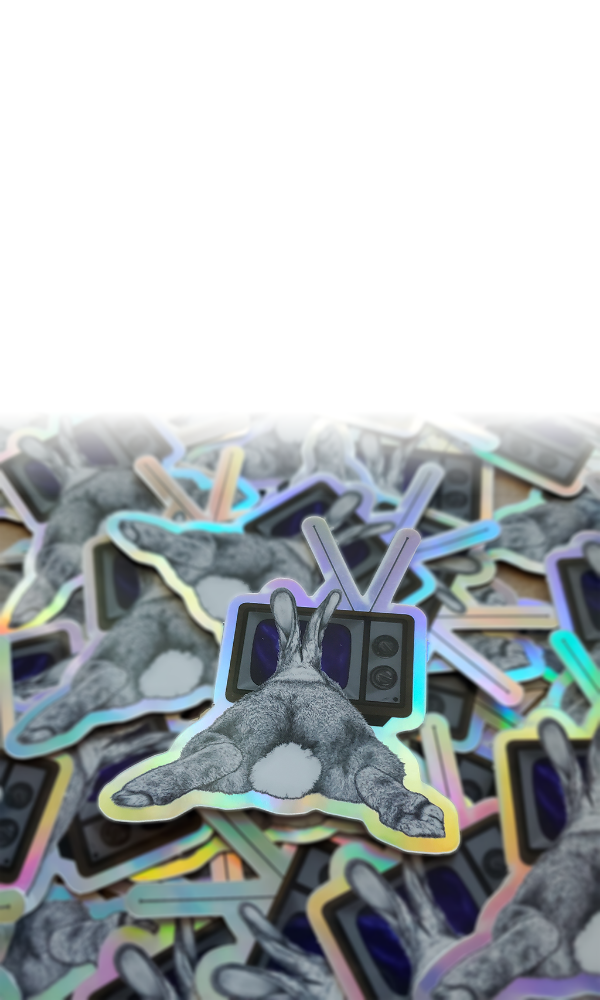
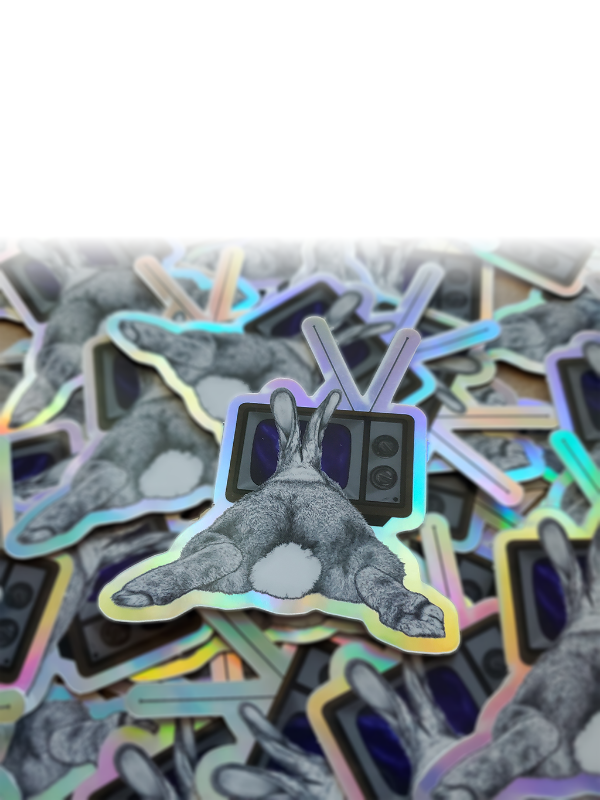
fix: img sizes on home

diff --git a/pages/view-product/[pid].jsx b/pages/view-product/[pid].jsx
@@ -1,23 +1,26 @@
 import { useRouter } from "next/router";
 import { useState, useEffect } from "react";
 import { Header, Footer } from "../../components/layout";
+import { QtyControl } from '../../components/controllers/qty_control';
 
 const ProductPreview = (props) => {
-  const [primaryImage, setPrimaryImage] = useState(props.product.productImages[0]);
-  
+  const [primaryImage, setPrimaryImage] = useState(
+    props.product.productImages[0]
+  );
+
   const handlePrimaryImageToggle = (i) => {
-    return setPrimaryImage(i)
-  }
+    return setPrimaryImage(i);
+  };
   return (
     <section className="col-md-6 col-sm-12 bg-light pid_section">
-      <img
-        className="main_img"
-        src={primaryImage}
-        alt={"product image"}
-      />
+      <img className="main_img" src={primaryImage} alt={"product image"} />
       <div className="img_previews">
         {props.product.productImages.map((i) => (
-          <button className="img_preview_button" onClick={() => handlePrimaryImageToggle(i)}>
+          <button
+            key={i}
+            className="img_preview_button"
+            onClick={() => handlePrimaryImageToggle(i)}
+          >
             <img src={i} alt={"product image"} />
           </button>
         ))}
@@ -49,7 +52,7 @@ const ViewProduct = (props) => {
         <div className="fluid-container bg-light pt-5 pb-5">
           <div className="container">
             <div className="row">
-              <ProductPreview product={product}/>
+              <ProductPreview product={product} />
               <section className="col-md-6 col-sm-12 bg-light pid_section">
                 <div className="p-sm-3">
                   <h2 className="product_view_title">{product.productTitle}</h2>
@@ -59,7 +62,7 @@ const ViewProduct = (props) => {
                 </div>
                 <div className="align-self-end p-sm-3 d-flex flex-column align-items-end">
                   <p className="product_view_price">{product.productPrice}</p>
-                  <button className="btn btn-outline-dark">Add To Cart</button>
+                  <QtyControl product={product}/>
                 </div>
               </section>
             </div>

diff --git a/components/home_content.jsx b/components/home_content.jsx
@@ -7,40 +7,21 @@ const ProductCard = (props) => {
 
   props.productBgIsLight
     ? (dom = {
-        title: "product_title",
-        hoverTitle: "big_title",
-        text: "product_text",
-        price: "product_text align-self-end product_price",
+        title: "font-weight-bold"
       })
     : (dom = {
-        title: "text-light product_title",
-        hoverTitle: "text-light big_title",
-        text: "text-light product_text",
-        price: "text-light product_text align-self-end product_price",
+        title: "text-light font-weight-bold"
       });
 
   return (
     <section className="product_card_v m-1">
-      <a className="no-link" href={props.productPath} ref={hoverRef}>
-        {isHovered ? (
-          <div
-            className="product_image"
-            style={{ backgroundImage: `url("${props.imagePathHovered}")` }}
-          >
-            <div className="holdstill">
-              <h3 className={dom.title}>{props.productTitle}</h3>
-              <p className={dom.text}>{props.productDescription}</p>
-            </div>
-            <h4 className={dom.price}>{props.productPrice}</h4>
-          </div>
-        ) : (
-          <div
-            className="product_image"
-            style={{ backgroundImage: `url("${props.imagePath}")` }}
-          >
-            <h3 className={dom.title}>{props.productTitle}</h3>
-          </div>
-        )}
+      <a className="no-link" href={props.productPath} ref={hoverRef}>       
+        <div
+          className="product_image"
+          style={{ backgroundImage: `url("${props.imagePath}")` }}
+        >
+          <h2 className={dom.title}>{props.productTitle}</h2>
+        </div>       
       </a>
     </section>
   );

diff --git a/components/controllers/qty_control.jsx b/components/controllers/qty_control.jsx
@@ -1,0 +1,34 @@
+import React, { useState } from 'react';
+
+const QtyControl = (props) => {
+  
+
+  const [count, setCount] = useState(0);
+  const handleCount = (operator) => {
+    if (operator === "+") return setCount(count + 1)
+    else {
+      if (count === 0) return
+      setCount(count - 1)      
+    }
+    
+  }
+
+  const handleSubmit = () => {
+    //post req
+    console.log(count)
+
+  }
+
+  return (
+    <div className="d-flex flex-column">
+      <div className="btn-group">
+        <button className="btn btn-outline-dark p-1 pr-3 pl-3" style={{height: 'fit-content'}} onClick={() => handleCount("-")}>-</button>
+        <p className="d-flex pr-3 pl-3" style={{height: 'fit-content'}}>{count}</p>
+        <button className="btn btn-outline-dark p-1 pr-3 pl-3" style={{height: 'fit-content'}} onClick={() => handleCount("+")}>+</button>      
+      </div>
+      <button className="btn btn-outline-dark" onClick={handleSubmit}>Add To Cart</button> 
+    </div>
+  );
+}
+
+export { QtyControl }

diff --git a/components/layout.jsx b/components/layout.jsx
@@ -31,7 +31,7 @@ const Header = (props) => {
         </a>
       ) : (
         <a className="navbar-brand text-light" href="/">
-          {store.storeName}
+          { store.storeName }
         </a>
       )}
       <button
@@ -42,13 +42,14 @@ const Header = (props) => {
         aria-controls="navbarNav"
         aria-expanded="false"
         aria-label="Toggle navigation"
-      >
+      > 
         <span className="navbar-toggler-icon"></span>
       </button>
       <div className="collapse navbar-collapse" id="navbarNav">
         <ul className="navbar-nav">
           {store.nav.links.map((i) => (
             <NavLink
+              key={i.path}
               current={props.current}
               title={i.title}
               path={i.path}

diff --git a/styles/index.css b/styles/index.css
@@ -10,10 +10,10 @@ main,
 }
 
 .product_image {
-  height: 500px;
+  height: 350px;
   width: 300px;
-  background-position: center;
-  background-size: contain;
+  background-position: bottom;
+  background-size: cover;
   display: flex;
   flex-direction: column;
   justify-content: space-between;
@@ -112,9 +112,11 @@ main,
 }
 
 @media screen and (max-width: 768px) and (min-width: 0) {
-  .products_wrapper {
-    display: flex;
-    flex-direction: column;
-    align-items: center;
+  .product_image {
+    height: 275px;
+    width: 200px;
+    padding: 0.5em;
+    background-repeat: no-repeat;
+    background-size: cover;
   }
 }
